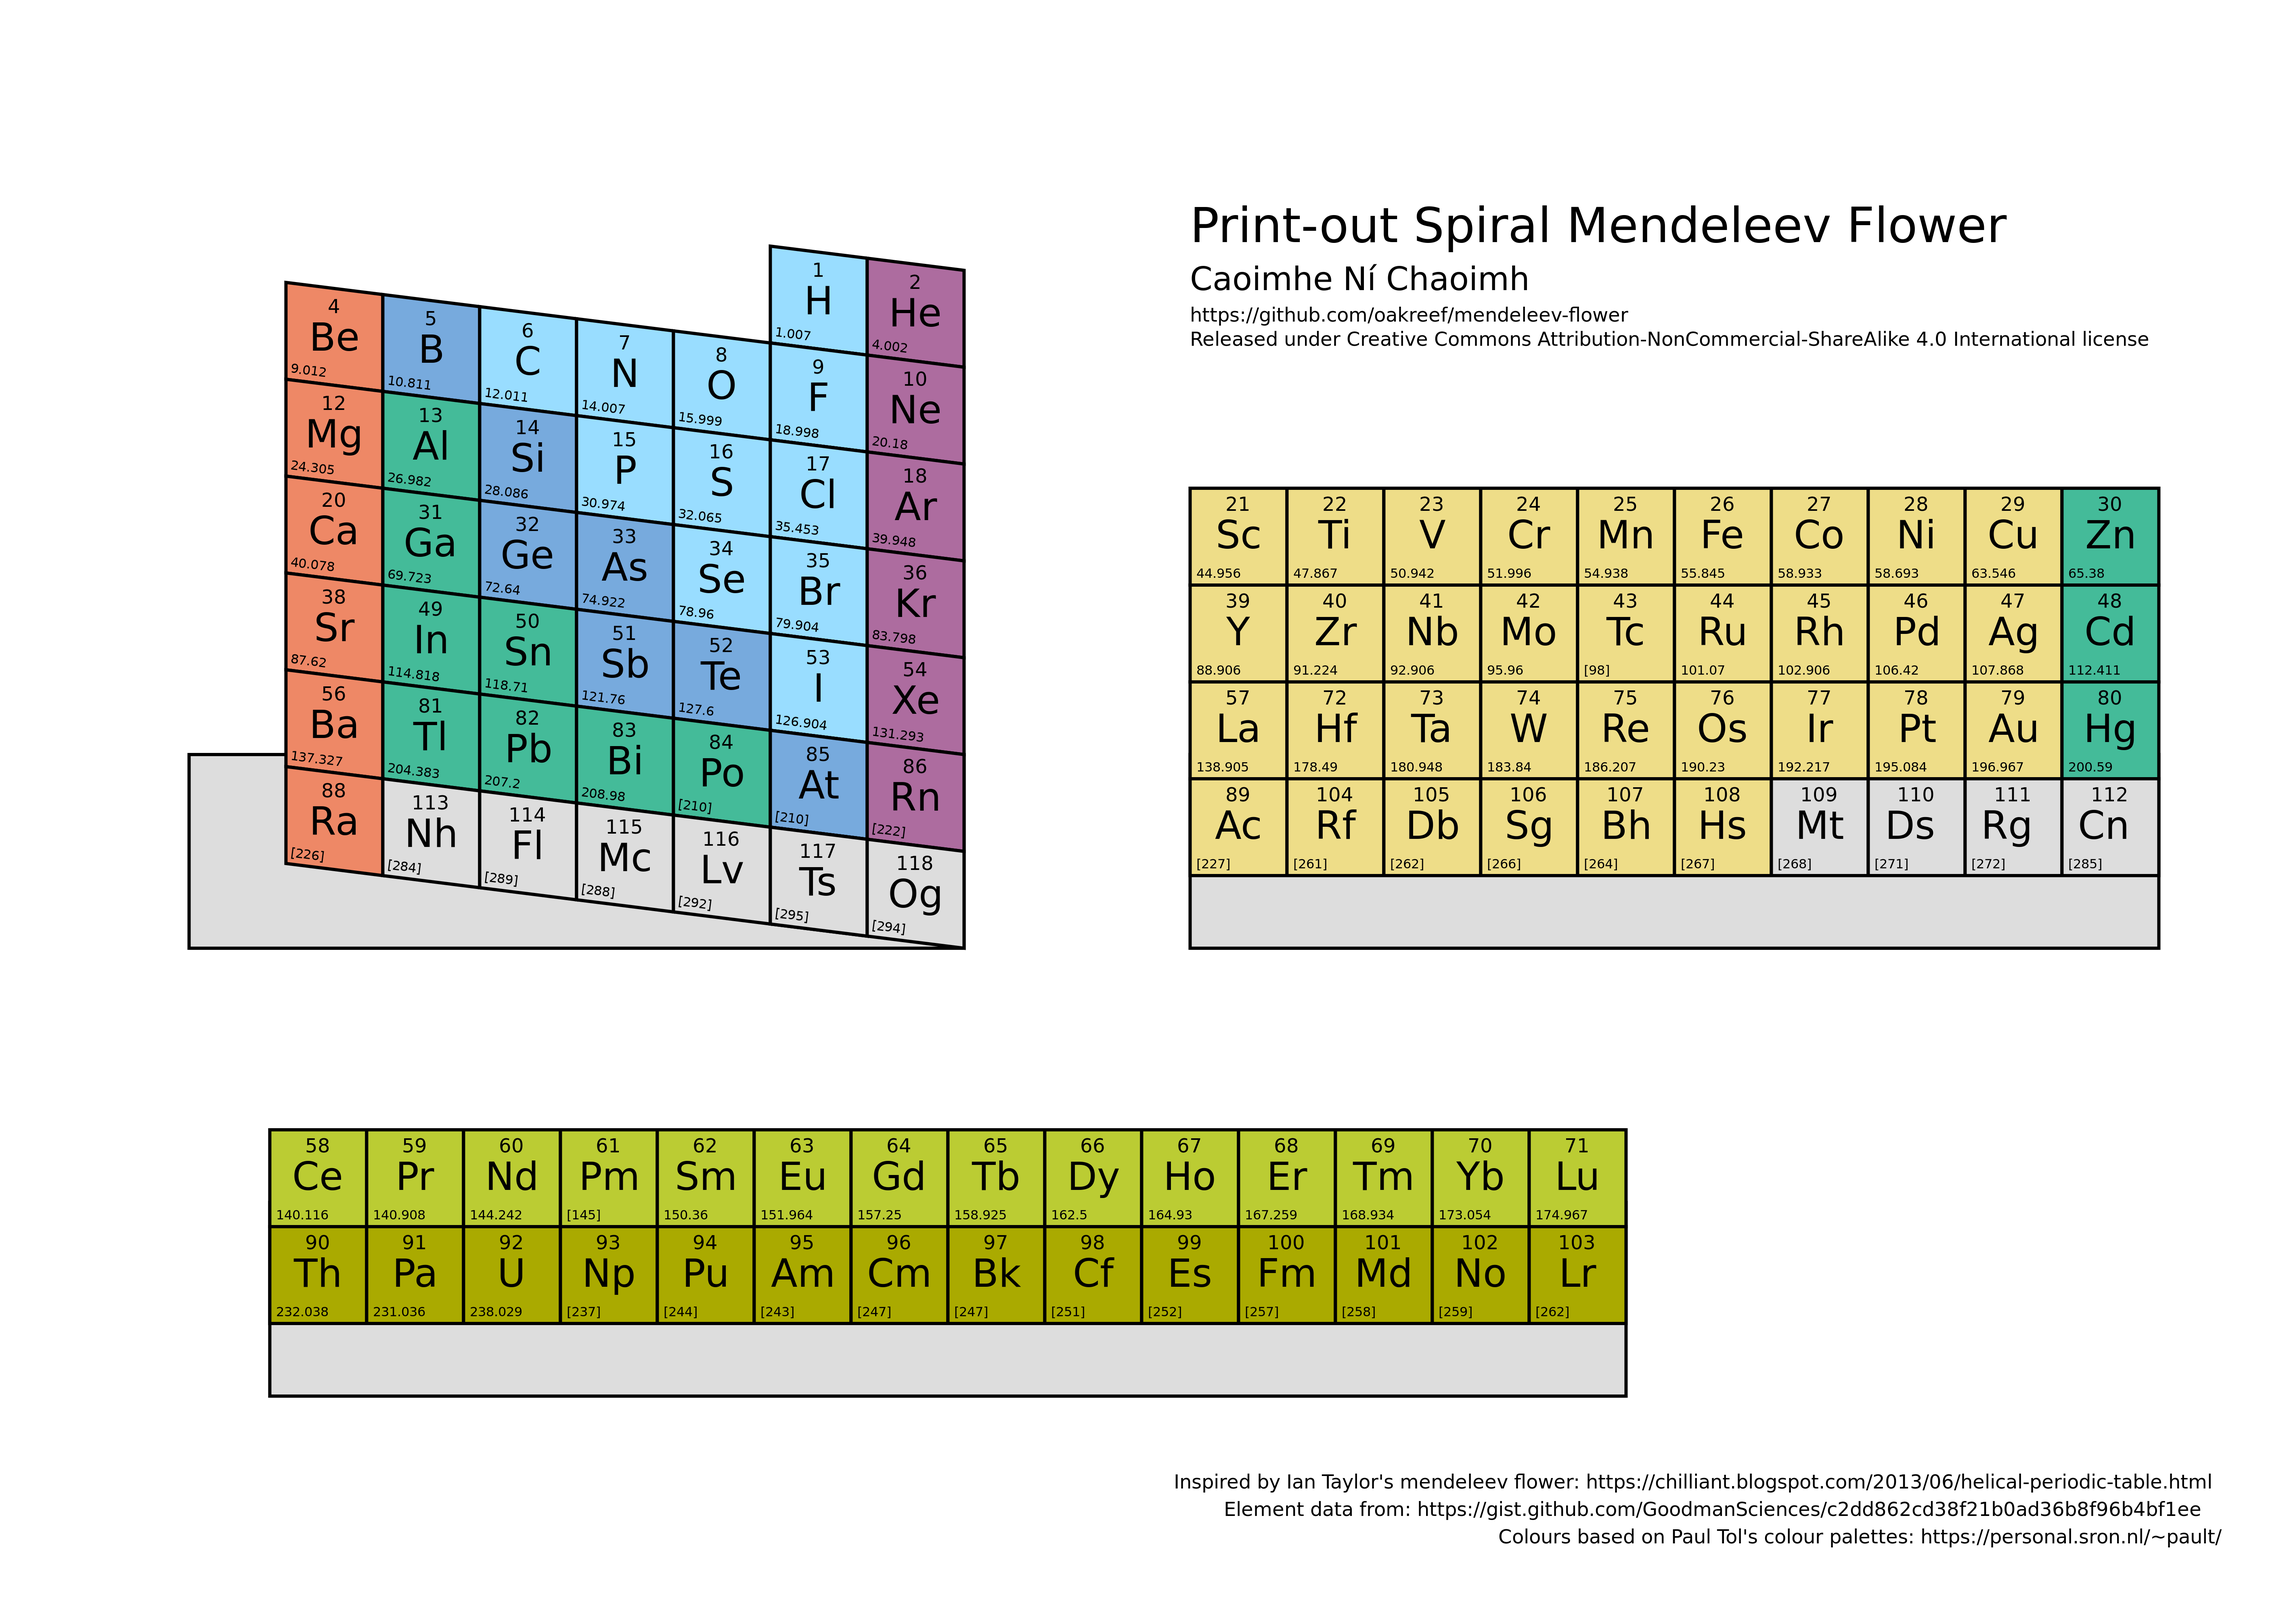
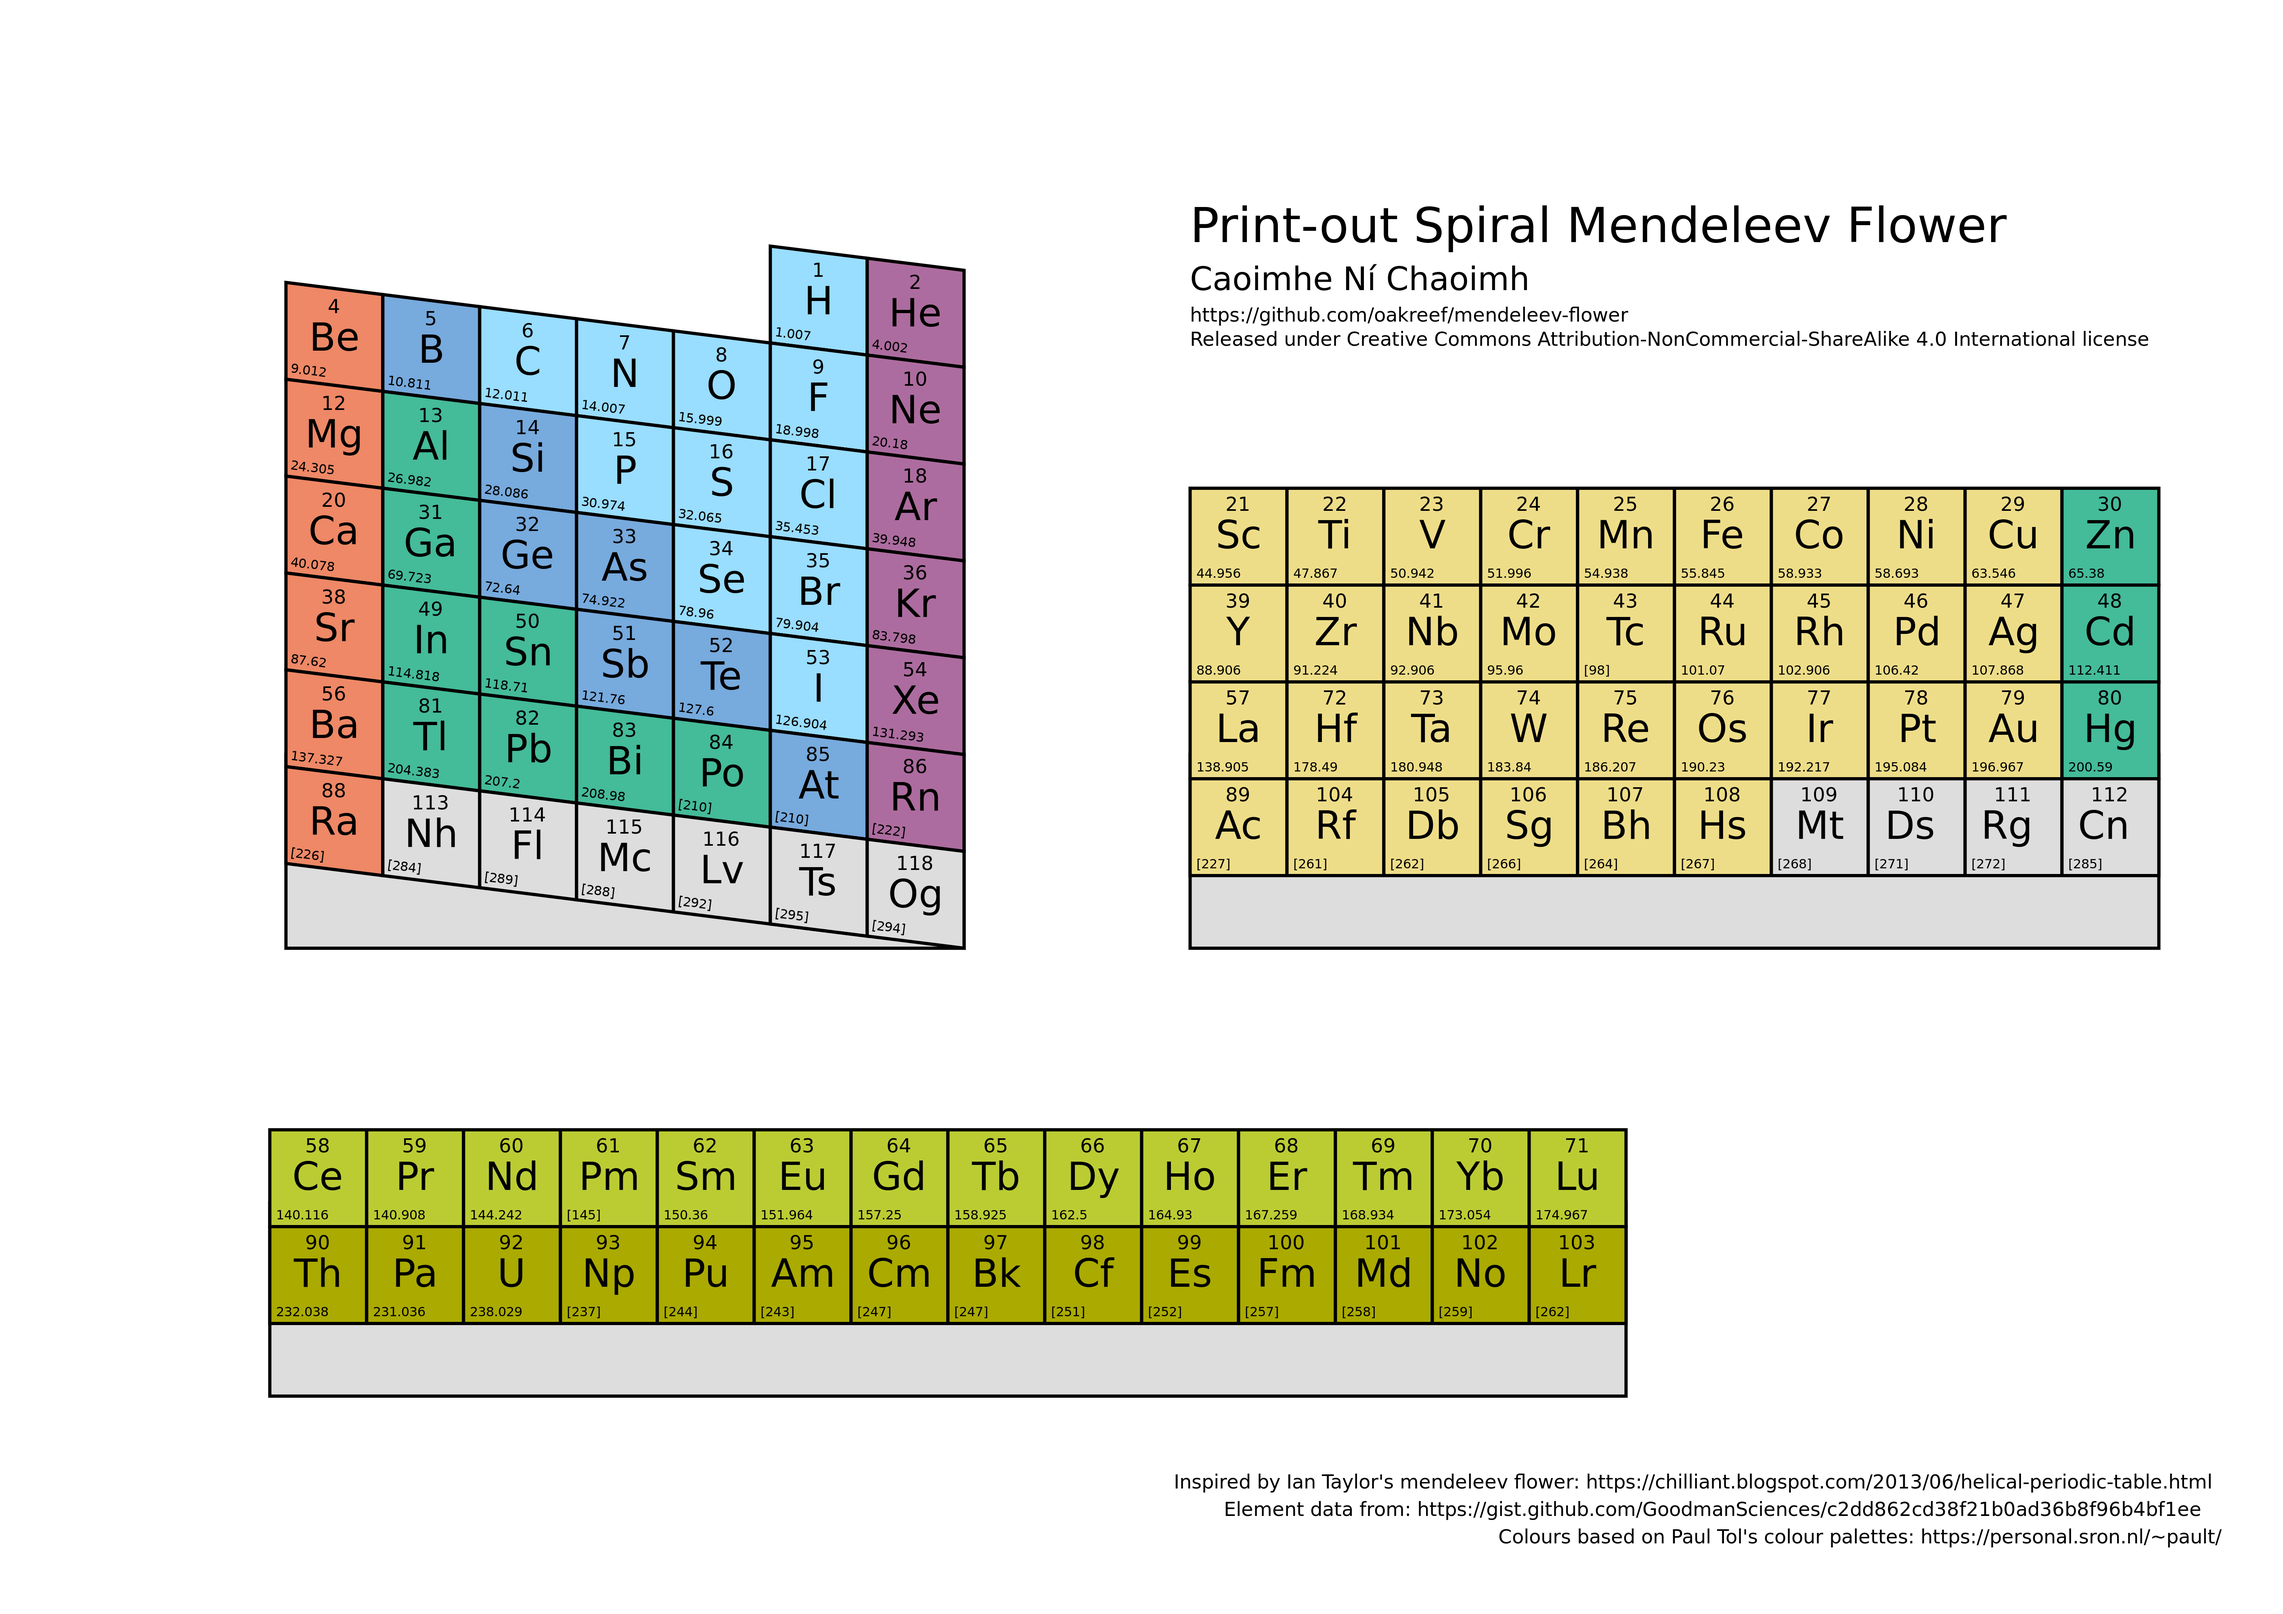
clip overhanging base on sp-block

Changed region(s): [[0.0622, 0.4688, 0.1245, 0.5938]]

diff --git a/mendeleev-flower.py b/mendeleev-flower.py
@@ -53,7 +53,7 @@ o=bw*math.tan(angle)
 
 # you might wonder about the maths here
 # it was entirely by trial and error
-spblock.append(svg.Rectangle(bw,-bh*8-o,bw*8,bh*2,stroke_width=2, stroke='black', fill=unknwn))
+spblock.append(svg.Rectangle(bw*2,-bh*8-o,bw*7,bh*2,stroke_width=2, stroke='black', fill=unknwn))
 fblock.append(svg.Rectangle(bw*3,-bh*8-o,bw*10,bh*2,stroke_width=2, stroke='black', fill=unknwn))
 dblock.append(svg.Rectangle(bw,-bh*8+2*o,bw*14,bh*2,stroke_width=2, stroke='black', fill=unknwn))
 
